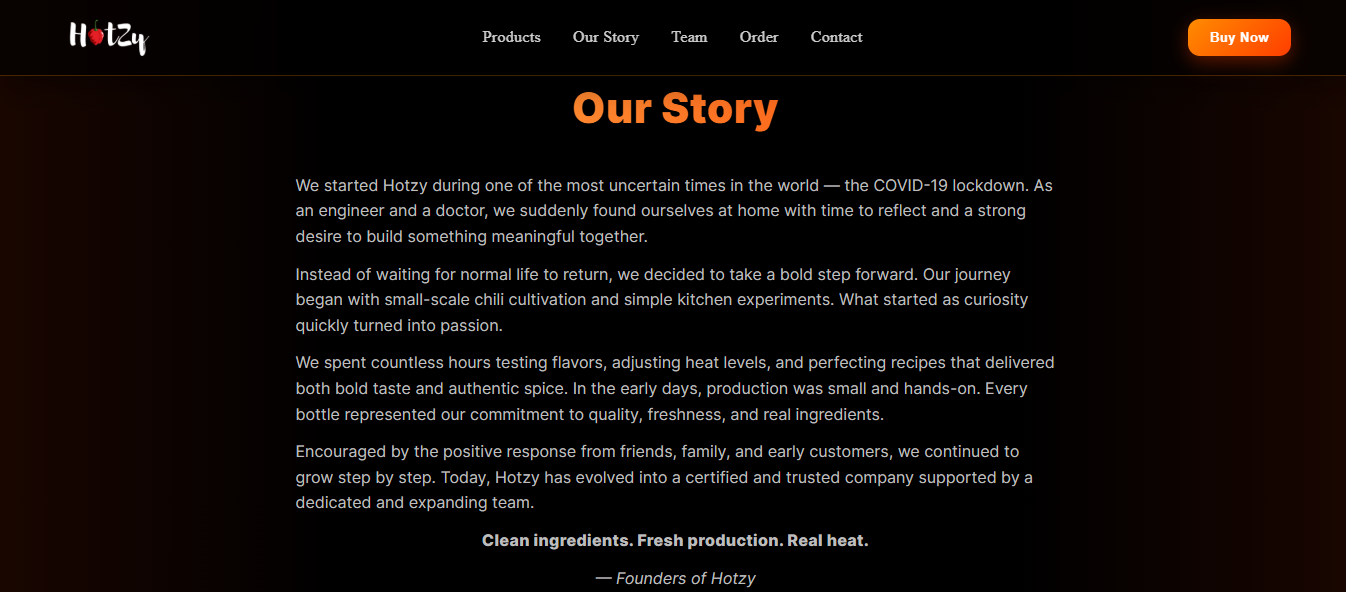
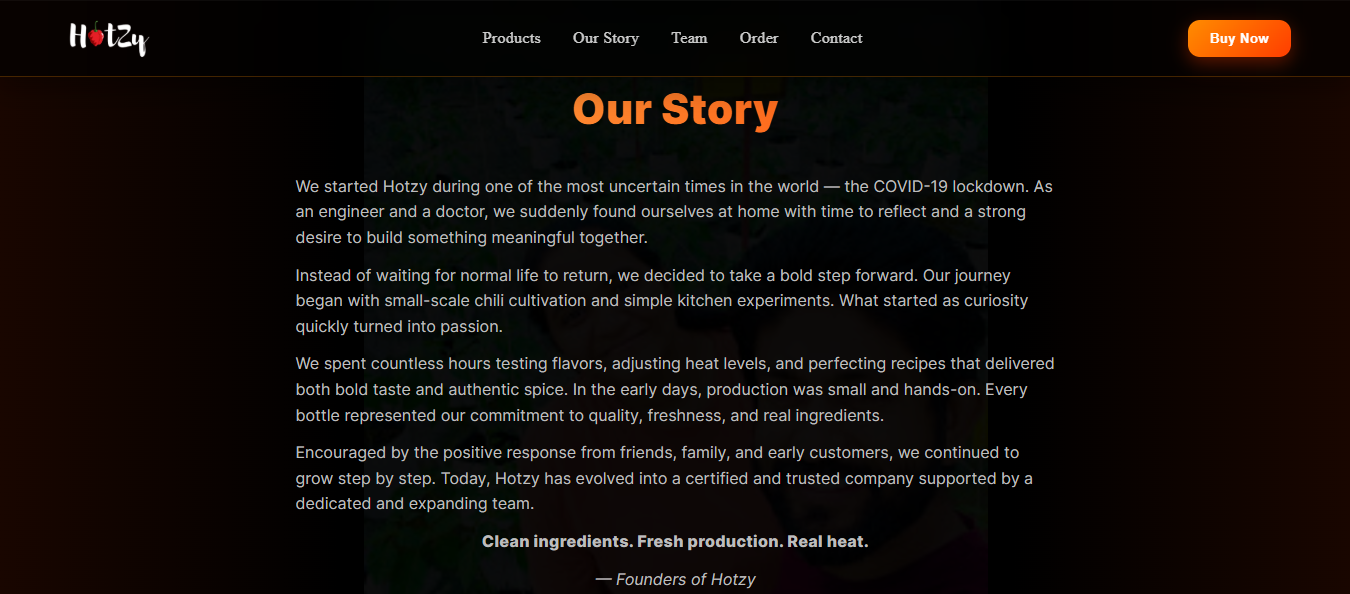
added story background image

diff --git a/src/app/components/hotzy-landing/hotzy-landing.scss b/src/app/components/hotzy-landing/hotzy-landing.scss
@@ -274,18 +274,34 @@
 
 /* ================= OUR STORY ================= */
 
+/* ================= OUR STORY ================= */
+
 .story {
+  position: relative;
   padding: 100px 20px;
-  background:
-    radial-gradient(circle at 20% 30%, rgba(255, 140, 0, 0.12), transparent 55%),
-    #050505;
   color: #fff;
+  overflow: hidden;
+  background: #050505;
 }
 
+/* 🔥 background image layer */
+.story::before {
+  content: "";
+  position: absolute;
+  inset: 0;
+  // background: url("assets/story_bg.jpg") center/cover no-repeat;
+  background: url("/assets/story_bg.jpg") center/contain no-repeat;
+  opacity: 0.05; /* ⭐ adjust opacity here */
+  z-index: 0;
+}
+
+/* keep content above image */
 .story-container {
+  position: relative;
   max-width: 900px;
   margin: 0 auto;
   text-align: center;
+  z-index: 1;
 }
 
 .story-title {

diff --git a/src/app/components/hotzy-landing/hotzy-landing.html b/src/app/components/hotzy-landing/hotzy-landing.html
@@ -81,7 +81,7 @@
   </section>
 
       <!-- OUR STORY -->
-  <section id="story" class="story" #revealEl>
+  <section id="story" class="story" #revealEl >
     <div class="story-container">
 
       <h2 class="story-title">Our Story</h2>
